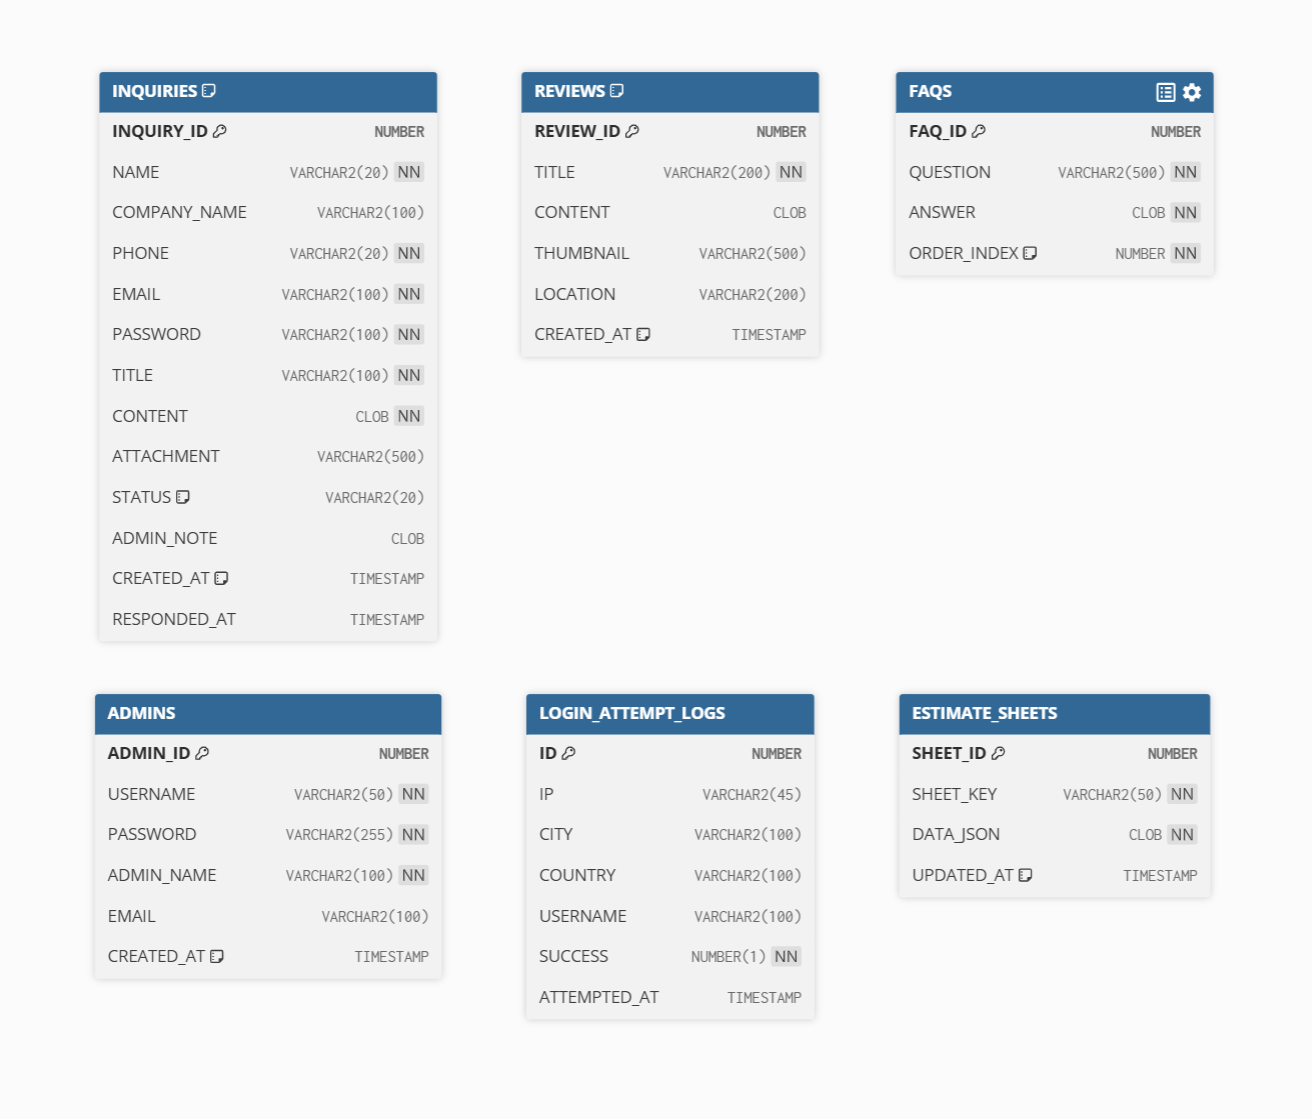
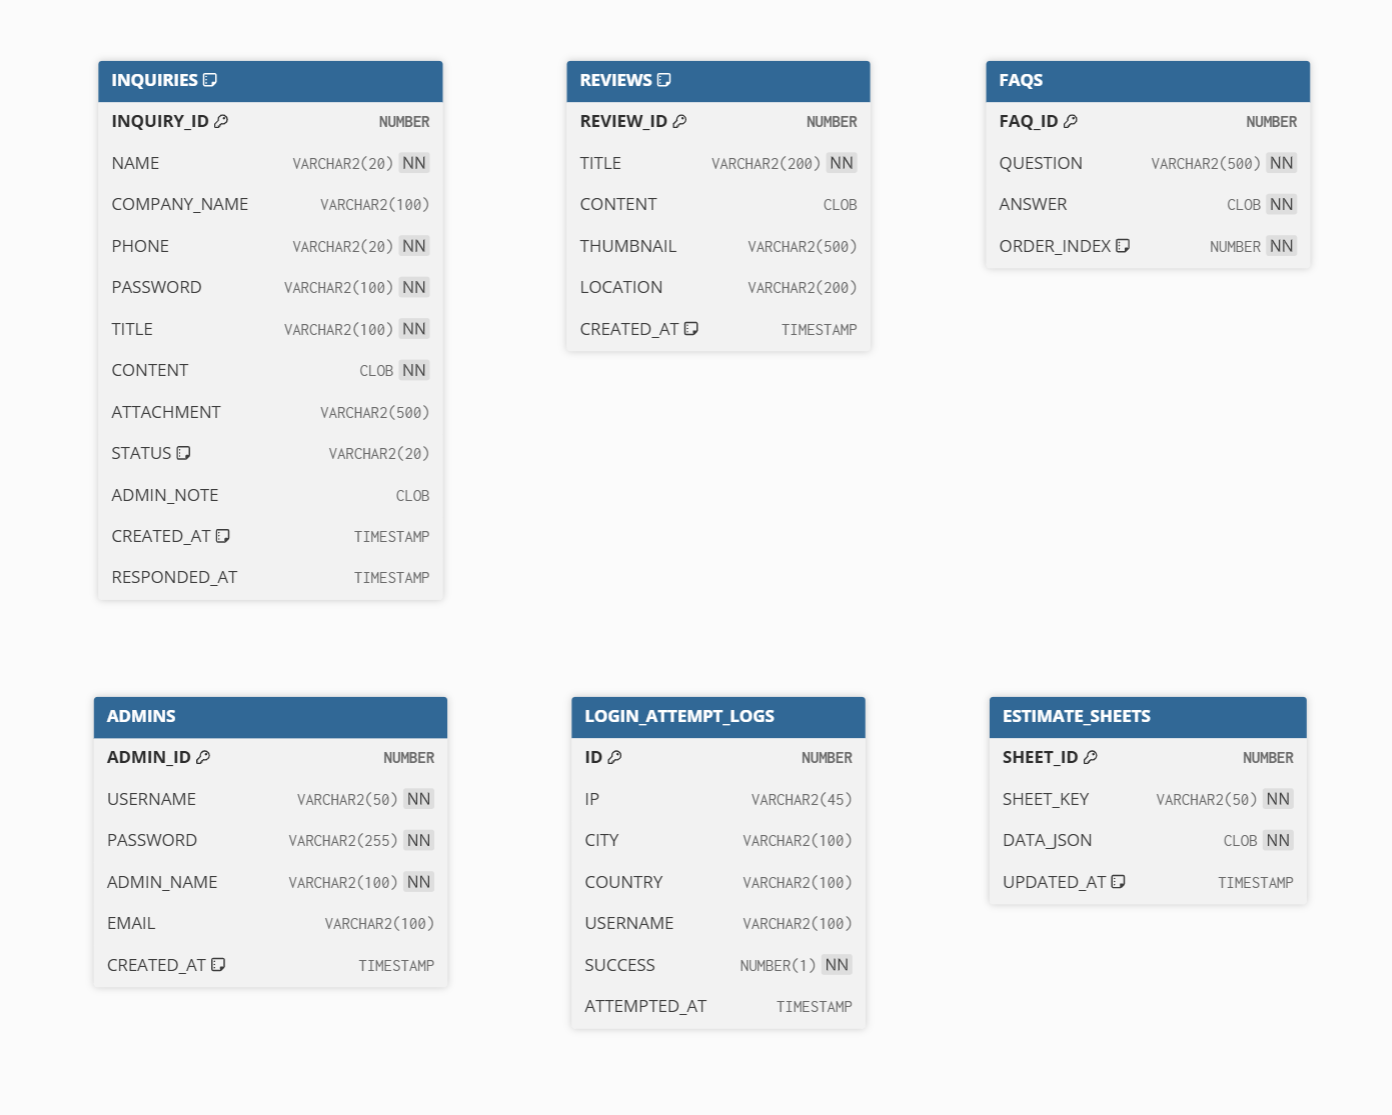
feat: 문의 이메일 필드 전체 제거 및 SEO·파비콘 개선
[이메일 제거]
- Home·QnaWrite·QnaDetail에서 이메일 입력칸 및 표시 제거
- InquiryController·Service·Entity·DTO에서 email 필드 전체 제거
- NotificationService 이메일 알림 HTML 템플릿에서 이메일 행 제거
- InquiryServiceTest setEmail() 호출 제거
- przo.sql INQUIRIES 테이블 EMAIL 컬럼 및 INSERT 제거
- Qna.jsx data.content undefined 방어 처리 추가

[SEO]
- 메타태그 title·description 인천·경기 지역 키워드 포함으로 개선
- og:title·og:description title·description과 통일
- keywords 메타태그 추가

[파비콘]
- favicon SVG 배경 둥근 사각형 → 꽉 찬 사각형으로 변경
- favicon.ico 루트 추가 및 index.html 링크 등록

[기타]
- Home.jsx API URL localhost:8080 → /api 상대경로 수정
- sitemap.xml에서 삭제된 /service 페이지 제거

diff --git a/front-end/src/pages/QnaWrite.jsx b/front-end/src/pages/QnaWrite.jsx
@@ -22,7 +22,6 @@ const QnaWrite = () => {
     name: "",
     companyName: "",
     phone: "",
-    email: "",
     title: "",
     content: "",
   });
@@ -34,14 +33,13 @@ const QnaWrite = () => {
   const [isSubmitting, setIsSubmitting] = useState(false);
   const [loading, setLoading] = useState(isEdit);
   const [modal, setModal] = useState(null);
-  const [fieldErrors, setFieldErrors] = useState({ name: "", phone: "", email: "", title: "", content: "" });
+  const [fieldErrors, setFieldErrors] = useState({ name: "", phone: "", title: "", content: "" });
   const [captchaSiteKey, setCaptchaSiteKey] = useState("");
   const [captchaToken, setCaptchaToken] = useState(null);
   const captchaRef = useRef(null);
   const submittedRef = useRef(false);
   const nameRef = useRef(null);
   const phoneRef = useRef(null);
-  const emailRef = useRef(null);
   const titleRef = useRef(null);
   const contentRef = useRef(null);
 
@@ -49,7 +47,6 @@ const QnaWrite = () => {
     formData.name.trim() !== "" ||
     formData.companyName.trim() !== "" ||
     formData.phone.trim() !== "" ||
-    formData.email.trim() !== "" ||
     formData.title.trim() !== "" ||
     formData.content.trim() !== "" ||
     attachments.length > 0;
@@ -90,7 +87,6 @@ const QnaWrite = () => {
         name: passedInquiry.name || "",
         companyName: passedInquiry.companyName || "",
         phone: passedInquiry.phone || "",
-        email: passedInquiry.email || "",
         title: passedInquiry.title || "",
         content: passedInquiry.content || "",
       });
@@ -177,14 +173,12 @@ const QnaWrite = () => {
     const phoneDigits = formData.phone.replace(/\D/g, "");
     if (!formData.phone.trim()) errors.phone = "전화번호를 입력해주세요.";
     else if (!isEdit && phoneDigits.length < 4) errors.phone = "올바른 전화번호를 입력해주세요.";
-    if (!formData.email.trim()) errors.email = "이메일을 입력해주세요.";
-    else if (!/^[^\s@]+@[^\s@]+\.[^\s@]+$/.test(formData.email.trim())) errors.email = "올바른 이메일 형식을 입력해주세요.";
     if (!formData.title.trim()) errors.title = "제목을 입력해주세요.";
     if (!formData.content.trim()) errors.content = "문의 내용을 입력해주세요.";
     if (Object.keys(errors).length > 0) {
       setFieldErrors(errors);
-      const firstKey = ["name", "phone", "email", "title", "content"].find((k) => errors[k]);
-      const refMap = { name: nameRef, phone: phoneRef, email: emailRef, title: titleRef, content: contentRef };
+      const firstKey = ["name", "phone", "title", "content"].find((k) => errors[k]);
+      const refMap = { name: nameRef, phone: phoneRef, title: titleRef, content: contentRef };
       const firstRef = refMap[firstKey];
       if (firstRef?.current) {
         firstRef.current.scrollIntoView({ behavior: "smooth", block: "center" });
@@ -203,7 +197,6 @@ const QnaWrite = () => {
       submitData.append("name", formData.name);
       submitData.append("companyName", formData.companyName);
       submitData.append("phone", formData.phone);
-      submitData.append("email", formData.email);
       submitData.append("title", formData.title);
       submitData.append("content", formData.content);
       attachments.forEach((file) => submitData.append("attachments", file));
@@ -246,7 +239,7 @@ const QnaWrite = () => {
         if (response.ok) {
           const data = await response.json();
           submittedRef.current = true;
-          setFormData({ name: "", companyName: "", phone: "", email: "", title: "", content: "" });
+          setFormData({ name: "", companyName: "", phone: "", title: "", content: "" });
           setAttachments([]);
           navigate(`/qna/${data.inquiryId}`, { state: { autoVerified: true, autoPassword } });
         } else if (response.status === 429) {
@@ -347,13 +340,6 @@ const QnaWrite = () => {
                     : "전화번호 뒷자리 4자리가 게시글 비밀번호로 자동 설정됩니다."}
                 </p>
                 {fieldErrors.phone && <p className="qna-write__field-error">{fieldErrors.phone}</p>}
-              </div>
-              <div className="qna-write__field">
-                <label className="qna-write__label">이메일</label>
-                <input type="text" name="email" value={formData.email} onChange={handleChange}
-                  ref={emailRef} className={`qna-write__input${fieldErrors.email ? " qna-write__input--error" : ""}`}
-                  placeholder="przo@naver.com" maxLength={100} />
-                {fieldErrors.email && <p className="qna-write__field-error">{fieldErrors.email}</p>}
               </div>
             </div>
 

diff --git a/front-end/src/pages/Home.jsx b/front-end/src/pages/Home.jsx
@@ -173,7 +173,6 @@ const Home = () => {
     name: "",
     companyName: "",
     phone: "",
-    email: "",
     title: "",
     content: "",
   });
@@ -182,10 +181,9 @@ const Home = () => {
   const [isSubmitting, setIsSubmitting] = useState(false);
   const [privacyAgreed, setPrivacyAgreed] = useState(false);
   const [privacyModalOpen, setPrivacyModalOpen] = useState(false);
-  const [fieldErrors, setFieldErrors] = useState({ name: "", phone: "", email: "", title: "", content: "" });
+  const [fieldErrors, setFieldErrors] = useState({ name: "", phone: "", title: "", content: "" });
   const nameRef = useRef(null);
   const phoneRef = useRef(null);
-  const emailRef = useRef(null);
   const titleRef = useRef(null);
   const contentRef = useRef(null);
 
@@ -265,14 +263,12 @@ const Home = () => {
     const errors = {};
     if (!formData.name.trim()) errors.name = "이름을 입력해주세요.";
     if (!formData.phone.trim()) errors.phone = "전화번호를 입력해주세요.";
-    if (!formData.email.trim()) errors.email = "이메일을 입력해주세요.";
-    else if (!/^[^\s@]+@[^\s@]+\.[^\s@]+$/.test(formData.email.trim())) errors.email = "올바른 이메일 형식을 입력해주세요.";
     if (!formData.title.trim()) errors.title = "제목을 입력해주세요.";
     if (!formData.content.trim()) errors.content = "문의 내용을 입력해주세요.";
     if (Object.keys(errors).length > 0) {
       setFieldErrors(errors);
-      const firstKey = ["name", "phone", "email", "title", "content"].find((k) => errors[k]);
-      const refMap = { name: nameRef, phone: phoneRef, email: emailRef, title: titleRef, content: contentRef };
+      const firstKey = ["name", "phone", "title", "content"].find((k) => errors[k]);
+      const refMap = { name: nameRef, phone: phoneRef, title: titleRef, content: contentRef };
       const firstRef = refMap[firstKey];
       if (firstRef?.current) {
         firstRef.current.scrollIntoView({ behavior: "smooth", block: "center" });
@@ -293,7 +289,6 @@ const Home = () => {
       submitData.append("name", formData.name);
       submitData.append("companyName", formData.companyName);
       submitData.append("phone", formData.phone);
-      submitData.append("email", formData.email);
       submitData.append("password", formData.phone.replace(/\D/g, "").slice(-4));
       submitData.append("title", formData.title);
       submitData.append("content", formData.content);
@@ -305,7 +300,7 @@ const Home = () => {
       });
 
       if (response.ok) {
-        setFormData({ name: "", companyName: "", phone: "", email: "", title: "", content: "" });
+        setFormData({ name: "", companyName: "", phone: "", title: "", content: "" });
         setAttachments([]);
         setModal({ title: "문의가 성공적으로 등록되었습니다.", buttons: [{ label: "확인", variant: "confirm", onClick: () => { setModal(null); navigate("/qna"); } }] });
       } else {
@@ -936,11 +931,6 @@ const Home = () => {
                     <input type="tel" name="phone" value={formData.phone} onChange={handleFormChange} ref={phoneRef} placeholder="010-1234-5678" maxLength={13} className={fieldErrors.phone ? "home__input--error" : undefined} />
                     <p className="home__field-hint">전화번호 뒤 4자리 -&gt; 게시글 비밀번호</p>
                     {fieldErrors.phone && <p className="home__field-error">{fieldErrors.phone}</p>}
-                  </div>
-                  <div className="home__section7-form-group">
-                    <label>이메일</label>
-                    <input type="text" name="email" value={formData.email} onChange={handleFormChange} ref={emailRef} placeholder="przo@naver.com" maxLength={100} className={fieldErrors.email ? "home__input--error" : undefined} />
-                    {fieldErrors.email && <p className="home__field-error">{fieldErrors.email}</p>}
                   </div>
                 </div>
                 <div className="home__privacy-agree">

diff --git a/front-end/src/pages/QnaDetail.jsx b/front-end/src/pages/QnaDetail.jsx
@@ -372,15 +372,11 @@ const QnaDetail = () => {
               </div>
             </div>
 
-            {/* 전화번호 & 이메일 */}
+            {/* 전화번호 */}
             <div className="qna-detail__row">
               <div className="qna-detail__field">
                 <label className="qna-detail__label">전화번호</label>
                 <div className="qna-detail__value">{inquiry.phone}</div>
-              </div>
-              <div className="qna-detail__field">
-                <label className="qna-detail__label">이메일</label>
-                <div className="qna-detail__value">{inquiry.email}</div>
               </div>
             </div>
 

diff --git a/front-end/src/pages/Qna.jsx b/front-end/src/pages/Qna.jsx
@@ -28,7 +28,7 @@ const Qna = () => {
         if (searchQuery) params.append("title", searchQuery);
         const response = await fetch(`${API_BASE_URL}/inquiries?${params}`);
         const data = await response.json();
-        setInquiries(data.content);
+        setInquiries(data.content || []);
         setTotalPages(data.totalPages);
         setTotalElements(data.totalElements);
       } catch (error) {

diff --git a/back-end/src/main/java/com/przo/company_web/controller/InquiryController.java b/back-end/src/main/java/com/przo/company_web/controller/InquiryController.java
@@ -161,7 +161,6 @@ public class InquiryController {
             @RequestParam String name,
             @RequestParam(required = false) String companyName,
             @RequestParam String phone,
-            @RequestParam String email,
             @RequestParam String password,
             @RequestParam String title,
             @RequestParam String content,
@@ -171,7 +170,7 @@ public class InquiryController {
         Map<String, Object> response = new HashMap<>();
 
         // 서버사이드 입력 검증
-        String validationError = validateInquiryFields(name, phone, email, title, content);
+        String validationError = validateInquiryFields(name, phone, title, content);
         if (validationError != null) {
             response.put("success", false);
             response.put("message", validationError);
@@ -193,7 +192,6 @@ public class InquiryController {
             request.setName(name);
             request.setCompanyName(companyName);
             request.setPhone(phone);
-            request.setEmail(email);
             request.setPassword(password);
             request.setTitle(title);
             request.setContent(content);
@@ -223,7 +221,6 @@ public class InquiryController {
             @RequestParam String name,
             @RequestParam(required = false) String companyName,
             @RequestParam String phone,
-            @RequestParam String email,
             @RequestParam String password,
             @RequestParam(required = false) String newPassword,
             @RequestParam String title,
@@ -234,7 +231,7 @@ public class InquiryController {
         Map<String, Object> response = new HashMap<>();
 
         // 서버사이드 입력 검증
-        String validationError = validateInquiryFields(name, phone, email, title, content);
+        String validationError = validateInquiryFields(name, phone, title, content);
         if (validationError != null) {
             response.put("success", false);
             response.put("message", validationError);
@@ -280,7 +277,6 @@ public class InquiryController {
             request.setName(name);
             request.setCompanyName(companyName);
             request.setPhone(phone);
-            request.setEmail(email);
             request.setPassword(newPassword != null && !newPassword.isEmpty() ? newPassword : password);
             request.setTitle(title);
             request.setContent(content);
@@ -399,13 +395,10 @@ public class InquiryController {
         return null;
     }
 
-    private String validateInquiryFields(String name, String phone, String email, String title, String content) {
+    private String validateInquiryFields(String name, String phone, String title, String content) {
         if (name == null || name.isBlank()) return "이름을 입력해주세요.";
         if (name.length() > 20) return "이름은 20자 이내로 입력해주세요.";
         if (phone == null || phone.isBlank()) return "전화번호를 입력해주세요.";
-        if (email == null || email.isBlank()) return "이메일을 입력해주세요.";
-        if (email.length() > 100) return "이메일은 100자 이내로 입력해주세요.";
-        if (!email.matches("^[^\\s@]+@[^\\s@]+\\.[^\\s@]+$")) return "올바른 이메일 형식을 입력해주세요.";
         if (title == null || title.isBlank()) return "제목을 입력해주세요.";
         if (title.length() > 100) return "제목은 100자 이내로 입력해주세요.";
         if (content == null || content.isBlank()) return "문의 내용을 입력해주세요.";

diff --git a/back-end/src/main/java/com/przo/company_web/service/NotificationService.java b/back-end/src/main/java/com/przo/company_web/service/NotificationService.java
@@ -133,10 +133,6 @@ public class NotificationService {
                         <td style="padding:10px 0;color:#999;">연락처</td>
                         <td style="padding:10px 0;">%s</td>
                       </tr>
-                      <tr style="border-bottom:1px solid #f0f0f0;">
-                        <td style="padding:10px 0;color:#999;">이메일</td>
-                        <td style="padding:10px 0;">%s</td>
-                      </tr>
                       <tr>
                         <td style="padding:10px 0;color:#999;">제목</td>
                         <td style="padding:10px 0;font-weight:600;">%s</td>
@@ -154,7 +150,7 @@ public class NotificationService {
                 </div>
                 """.formatted(
                 inquiry.getName(), companyName,
-                inquiry.getPhone(), inquiry.getEmail(),
+                inquiry.getPhone(),
                 inquiry.getTitle(), content, imagesHtml, inquiry.getId()
         );
     }

diff --git a/back-end/src/main/java/com/przo/company_web/service/InquiryService.java b/back-end/src/main/java/com/przo/company_web/service/InquiryService.java
@@ -56,7 +56,6 @@ public class InquiryService {
         inquiry.setName(request.getName());
         inquiry.setCompanyName(request.getCompanyName());
         inquiry.setPhone(request.getPhone());
-        inquiry.setEmail(request.getEmail());
         inquiry.setPassword(passwordEncoder.encode(request.getPassword()));
         inquiry.setTitle(request.getTitle());
         inquiry.setContent(request.getContent());
@@ -79,7 +78,6 @@ public class InquiryService {
                     inquiry.setName(request.getName());
                     inquiry.setCompanyName(request.getCompanyName());
                     inquiry.setPhone(request.getPhone());
-                    inquiry.setEmail(request.getEmail());
                     inquiry.setPassword(passwordEncoder.encode(request.getPassword()));
                     inquiry.setTitle(request.getTitle());
                     inquiry.setContent(request.getContent());

diff --git a/back-end/src/test/java/com/przo/company_web/InquiryServiceTest.java b/back-end/src/test/java/com/przo/company_web/InquiryServiceTest.java
@@ -61,7 +61,6 @@ class InquiryServiceTest {
         InquiryCreateRequest request = new InquiryCreateRequest();
         request.setName("홍길동");
         request.setPhone("010-1234-5678");
-        request.setEmail("test@test.com");
         request.setPassword("5678");
         request.setTitle("테스트 문의");
         request.setContent("문의 내용입니다.");
@@ -81,7 +80,6 @@ class InquiryServiceTest {
         Inquiry inquiry = new Inquiry();
         inquiry.setName("홍길동");
         inquiry.setPhone("010-1234-5678");
-        inquiry.setEmail("test@test.com");
         inquiry.setTitle("테스트 제목");
         inquiry.setStatus("pending");
         when(inquiryRepository.findById(1L)).thenReturn(Optional.of(inquiry));

diff --git a/back-end/src/main/java/com/przo/company_web/dto/InquiryDetailResponse.java b/back-end/src/main/java/com/przo/company_web/dto/InquiryDetailResponse.java
@@ -13,7 +13,6 @@ public class InquiryDetailResponse {
     private String name;
     private String companyName;
     private String phone;
-    private String email;
     private String title;
     private String content;
     private String attachment;
@@ -31,7 +30,6 @@ public class InquiryDetailResponse {
         this.name = inquiry.getName();
         this.companyName = inquiry.getCompanyName();
         this.phone = inquiry.getPhone();
-        this.email = inquiry.getEmail();
         this.title = inquiry.getTitle();
         this.content = inquiry.getContent();
         this.attachment = inquiry.getAttachment();

diff --git a/back-end/src/main/java/com/przo/company_web/dto/InquiryCreateRequest.java b/back-end/src/main/java/com/przo/company_web/dto/InquiryCreateRequest.java
@@ -1,6 +1,5 @@
 package com.przo.company_web.dto;
 
-import jakarta.validation.constraints.Email;
 import jakarta.validation.constraints.NotBlank;
 import lombok.Getter;
 import lombok.Setter;
@@ -16,10 +15,6 @@ public class InquiryCreateRequest {
 
     @NotBlank(message = "전화번호를 입력해주세요.")
     private String phone;
-
-    @NotBlank(message = "이메일을 입력해주세요.")
-    @Email(message = "올바른 이메일 형식이 아닙니다.")
-    private String email;
 
     @NotBlank(message = "비밀번호를 입력해주세요.")
     private String password;

diff --git a/back-end/src/main/java/com/przo/company_web/entity/Inquiry.java b/back-end/src/main/java/com/przo/company_web/entity/Inquiry.java
@@ -32,9 +32,6 @@ public class Inquiry {
     @Column(name = "PHONE", nullable = false, length = 20)
     private String phone;
 
-    @Column(name = "EMAIL", nullable = false, length = 100)
-    private String email;
-
     @Column(name = "PASSWORD", nullable = false, length = 100)
     private String password;
 
